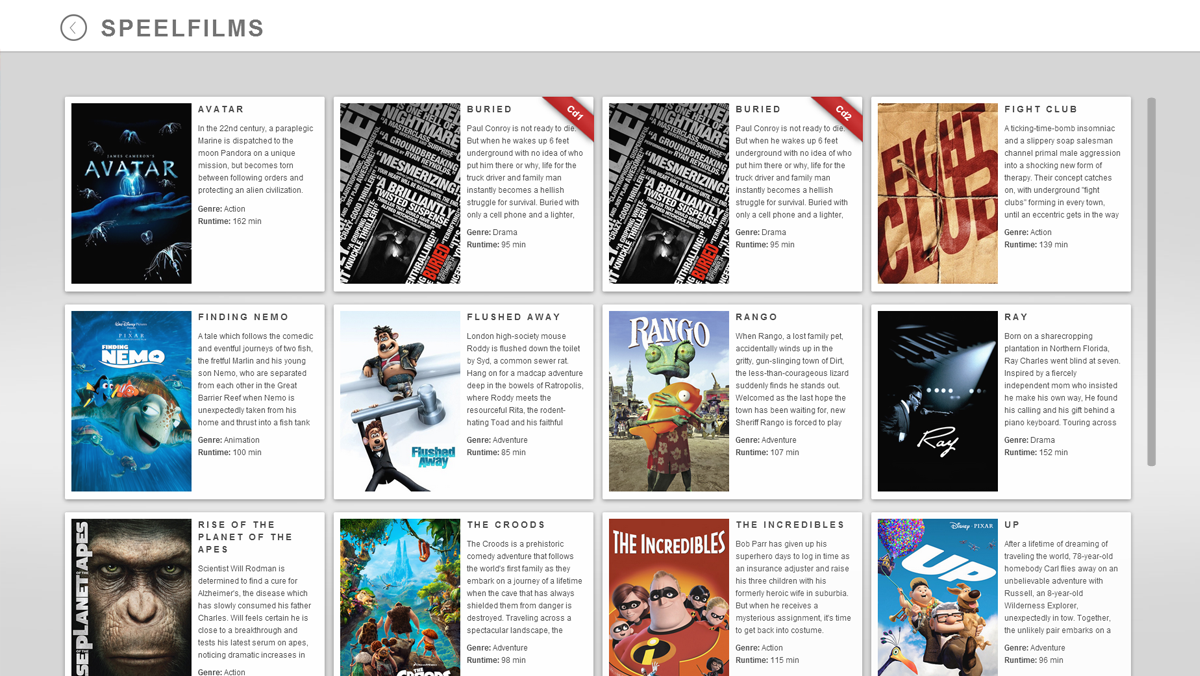
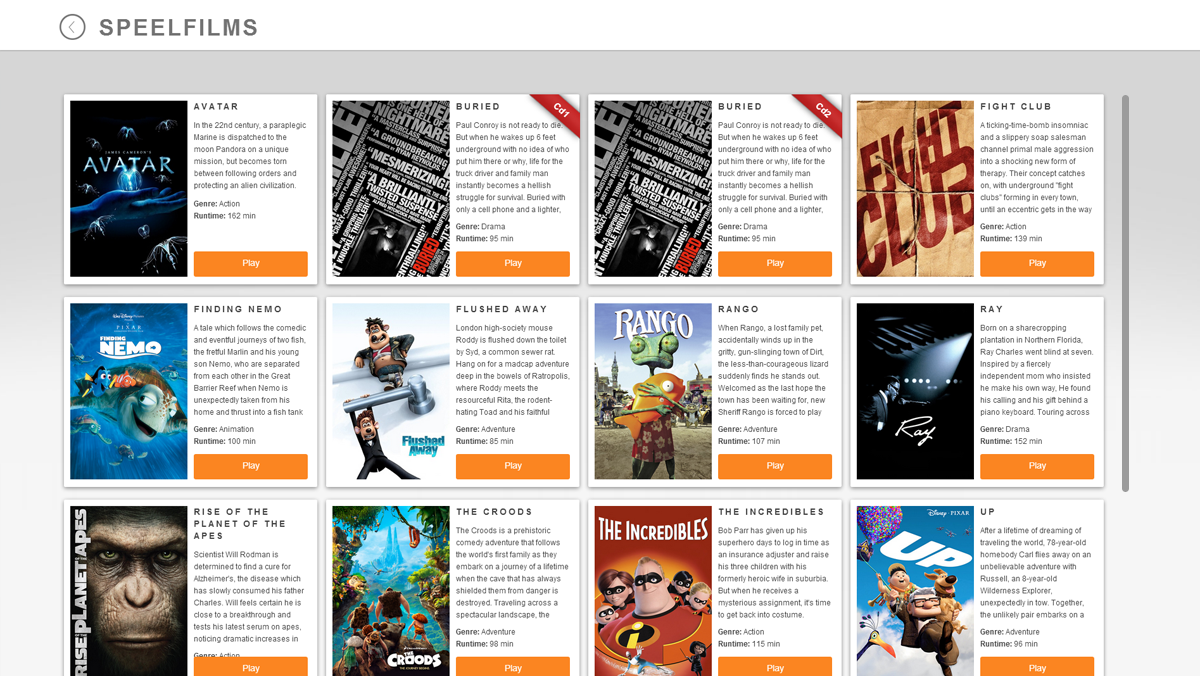
New UI

diff --git a/public/movies/css/style.css b/public/movies/css/style.css
@@ -130,11 +130,27 @@ span.title{visibility:hidden; width:0; height:0;}
 	-moz-box-shadow: 0 2px 10px #888;
 	-webkit-box-shadow: 0 2px 10px #888;
 	box-shadow: 0 2px 10px #888;
+	position:relative;
 }
 
 .movieposter.showDetails a{ float:left; }
 
-#overview{
+.movieposter.showDetails .playbtn{ 
+	position:absolute;
+	right:15px;
+	bottom:12px;
+	background-color:#FB8521;
+	color:#fff;
+	font-size:14px;
+	padding:10px 20px;
+	border-radius:3px;
+	min-height:20px;
+	text-align:center;
+	width:140px;
+	margin:10px 0px 0 20px;
+}
+
+.overview{
 	float: left;
 	color: #444;
 	margin:0px 0 0 10px;
@@ -142,39 +158,24 @@ span.title{visibility:hidden; width:0; height:0;}
 	width: 180px;
 }
 
-#overview p.summary{
+.overview p.summary{
 	max-height:150px; 
 	overflow:hidden;
 	margin-bottom:10px
 }
 
-#additional{
+.additional{
 	margin: 0px 0px 0;
 	float: left;
 }
 
-#overview h1{ margin:0px 0 10px 0; font-size:14px;}
-#overview p{font-size:12px; margin:0px;}
+.overview h1{ margin:0px 0 10px 0; font-size:14px;}
+.overview p{font-size:12px; margin:0px;}
 
 #poster{
 	float:left;
 	width:185px;
 	padding:20px;
-}
-
-#additional > div{
-	float:left;
-	font-size:13px;
-	margin-left:40px;	
-}
-
-#additional > div > p{
-	margin:0;
-	padding:50px 0 30px 0;
-} 
-
-#additional > div:first-child{
-	margin-left:20px;
 }
 
 #moviedetails a.backlink{margin-top:23px; height:50px}

diff --git a/public/movies/js/jquery.mcjs.movies.js b/public/movies/js/jquery.mcjs.movies.js
@@ -112,7 +112,8 @@
 			setTimeout(function(){
 				visibleMovie.find("img.movieposter").attr('src','');	
 				visibleMovie.find("img.movieposter").attr('src',movieData[0].poster).addClass('coverfound');							
-				visibleMovie.append('<div id="overview"><h1>'+movieData[0].original_name+'</h1><p class="summary">'+movieData[0].overview+'</p><p><strong> Genre:</strong> '+movieData[0].genre+'</p><p><strong> Runtime:</strong> '+movieData[0].runtime+' min</p></div>').addClass('showDetails fadein');;
+				visibleMovie.find('.overview').append('<h1>'+movieData[0].original_name+'</h1><p class="summary">'+movieData[0].overview+'</p><p><strong> Genre:</strong> '+movieData[0].genre+'</p><p><strong> Runtime:</strong> '+movieData[0].runtime+' min</p>');
+				visibleMovie.addClass('showDetails fadein');
 			},400);
 			
 			visibleMovie.find("img.movieposter").attr('data-backdrop',movieData[0].backdrop);

diff --git a/public/movies/data/movieindex.js b/public/movies/data/movieindex.js
@@ -1,10 +1,15 @@
 [
-    "Despicable Me .avi",
-    "Escape from Planet Earth.avi",
+    "avatar.avi",
+    "buried cd1.avi",
+    "buried cd2.avi",
+    "fight club.avi",
+    "finding nemo.avi",
+    "flushed away.avi",
     "rango.avi",
-    "rio.avi",
+    "ray.avi",
+    "rise of the planet of the apes.avi",
+    "the croods.avi",
+    "the incredibles.avi",
     "up.avi",
-    "wall-e.avi",
-    "wreck-it ralph.avi",
-    "ZXZx/avatar.mp4"
+    "wreck it ralph.avi"
 ]
